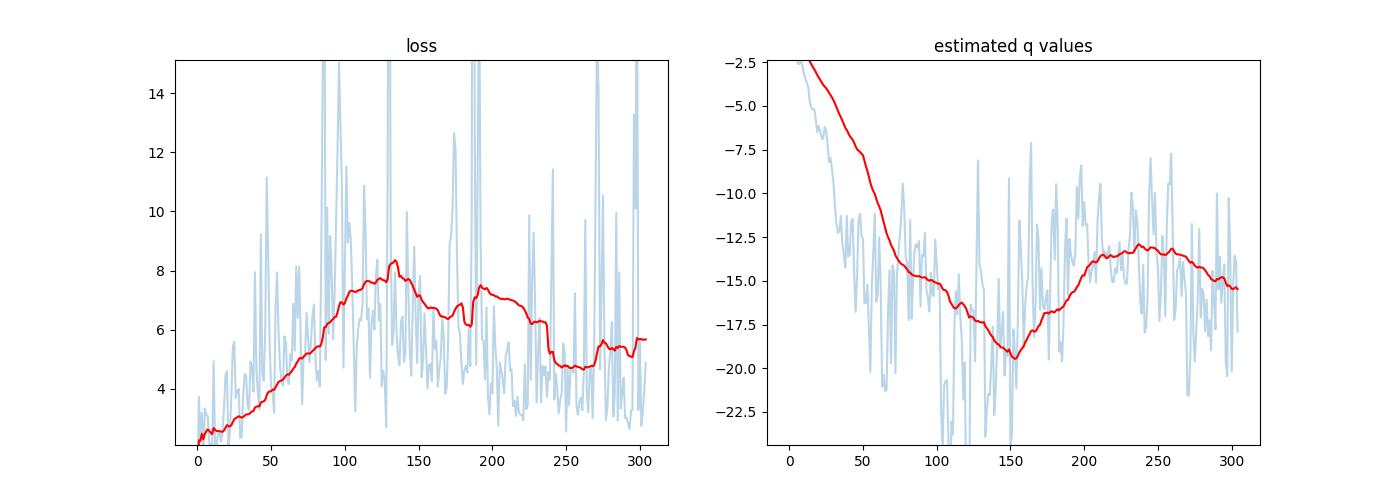
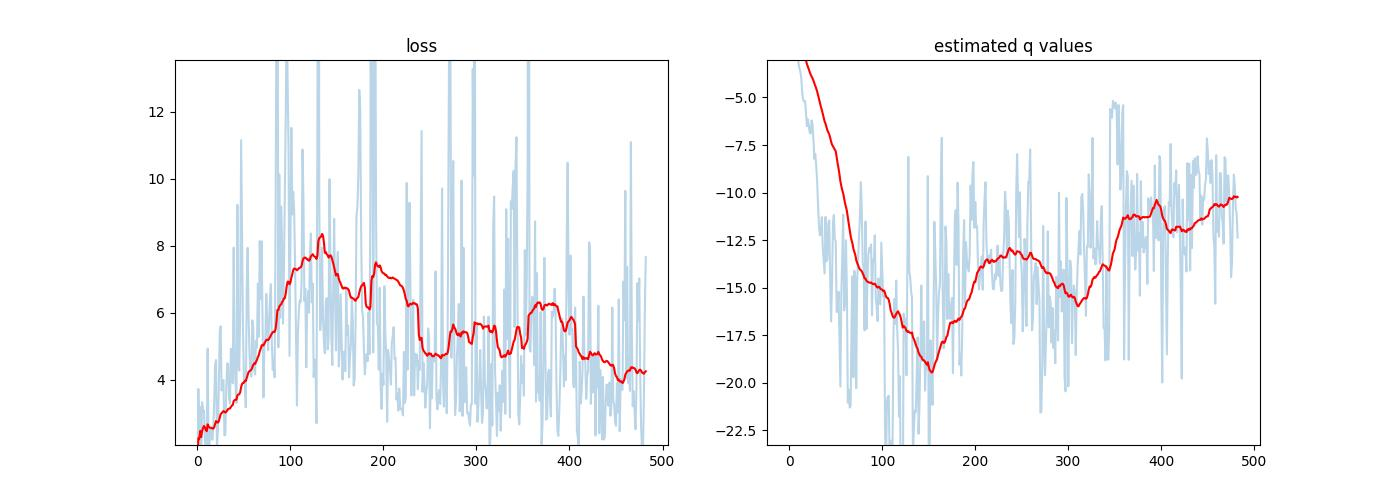
.

diff --git a/t4/make_model.py b/t4/make_model.py
@@ -2,8 +2,8 @@ import tensorflow as tf
 
 #config
 batch_size = 128
-gamma = 0.975
-learning_rate=0.0000001
+gamma = 0.95
+learning_rate=0.00001
 num_data_generation_threads = 12
 batch_generation_threads = 8
 memory_size = 300_000
@@ -148,12 +148,12 @@ def make_model():
   actions_all = tf.keras.layers.LeakyReLU()(actions_all)
   actions_all = tf.keras.layers.Dense(128)(actions_all)
   actions_all = tf.keras.layers.LeakyReLU()(actions_all)
-  actions_all = tf.keras.layers.Dense(256)(actions_all)
+  actions_all = tf.keras.layers.Dense(128)(actions_all)
   actions_all = tf.keras.layers.LeakyReLU()(actions_all)
   #actions_all = TransformerBlock(actions_all.shape[-1], 4, 256)(actions_all)
   #actions_all = TransformerBlock(actions_all.shape[-1], 4, 256)(actions_all)
   #actions_all = TransformerBlock(actions_all.shape[-1], 4, 256)(actions_all)
-  actions_all = TransformerBlock(actions_all.shape[-1], 4, 256)(actions_all)
+  actions_all = TransformerBlock(actions_all.shape[-1], 2, 256)(actions_all)
   #actions_all = tf.keras.layers.GRU(1024)(actions_all)
   actions_all = tf.keras.layers.GlobalAveragePooling1D()(actions_all)
 
